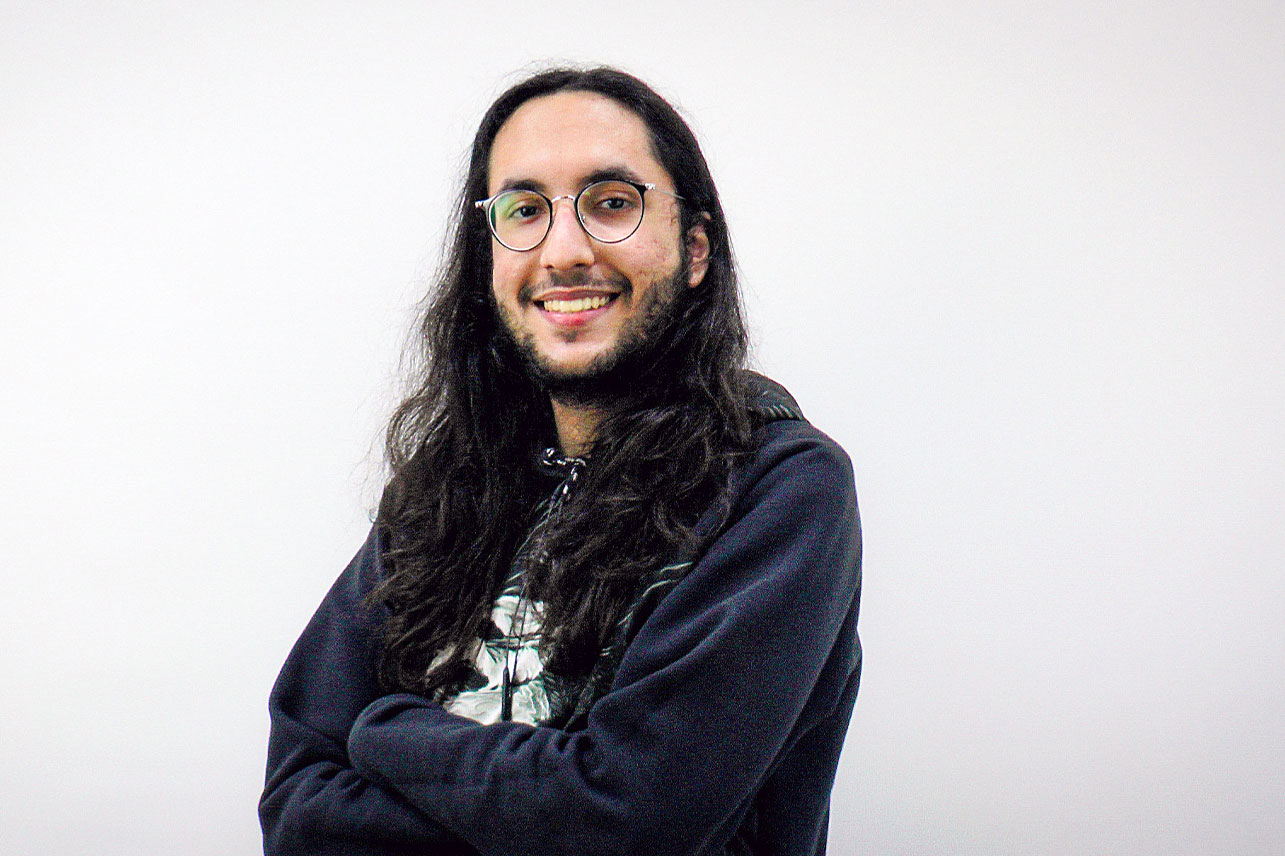
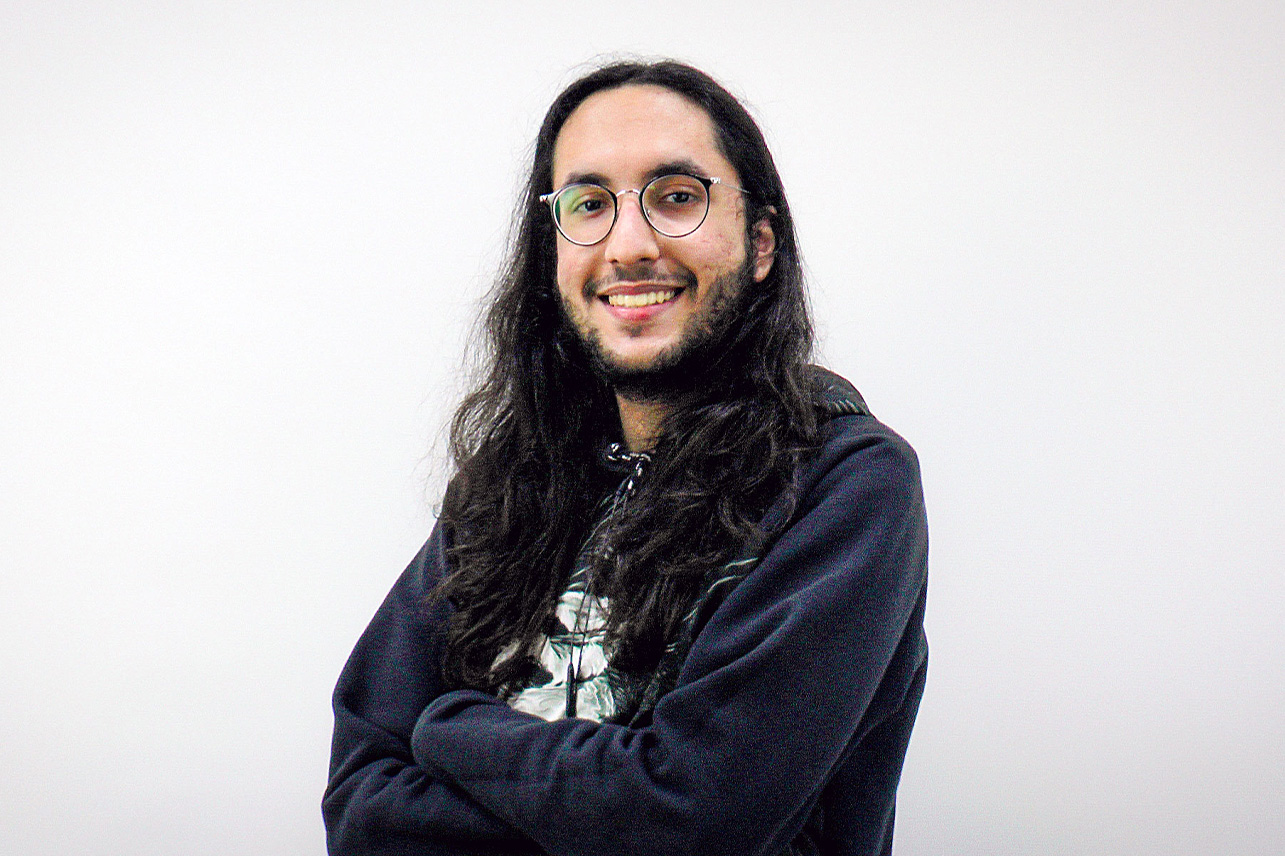
correct pictures

Changed region(s): [[0.1868, 0.0607, 0.7471, 1.0]]

diff --git a/index.html b/index.html
@@ -54,7 +54,7 @@
 				<!-- One -->
 					<section id="one" class="wrapper style2 spotlights">
 						<section>
-							<a href="#" class="image"><img src="images/adinan_home.jpg" alt="" data-position="center center" /></a>
+							<a href="#" class="image"><img src="images/adinan_home.jpg" alt="" data-position="center 15%" /></a>
 							<div class="content">
 								<div class="inner">
 									<h2>Adinan Alves de Brito Filho</h2>
@@ -66,7 +66,7 @@
 							</div>
 						</section>
 						<section>
-							<a href="#" class="image"><img src="images/joao_home.jpg" alt="" data-position="25% 25%" /></a>
+							<a href="#" class="image"><img src="images/joao_home.jpg" alt="" data-position="center 25%" /></a>
 							<div class="content">
 								<div class="inner">
 									<h2>João Pedro Silva Cardoso</h2>
@@ -78,7 +78,7 @@
 							</div>
 						</section>
 						<section>
-							<a href="#" class="image"><img src="images/marcelo_home.jpg" alt="" data-position="15% 15%" /></a>
+							<a href="#" class="image"><img src="images/marcelo_home_2.jpg" alt="" data-position="center 20%" /></a>
 							<div class="content">
 								<div class="inner">
 									<h2>Marcelo Pedro Gomes Sanchez</h2>
@@ -90,7 +90,7 @@
 							</div>
 						</section>
 						<section>
-							<a href="#" class="image"><img src="images/walter_home.jpg" alt="" data-position="25% 25%" /></a>
+							<a href="#" class="image"><img src="images/walter_home.jpg" alt="" data-position="center 15%" /></a>
 							<div class="content">
 								<div class="inner">
 									<h2>Walter Silva Oliveira</h2>
